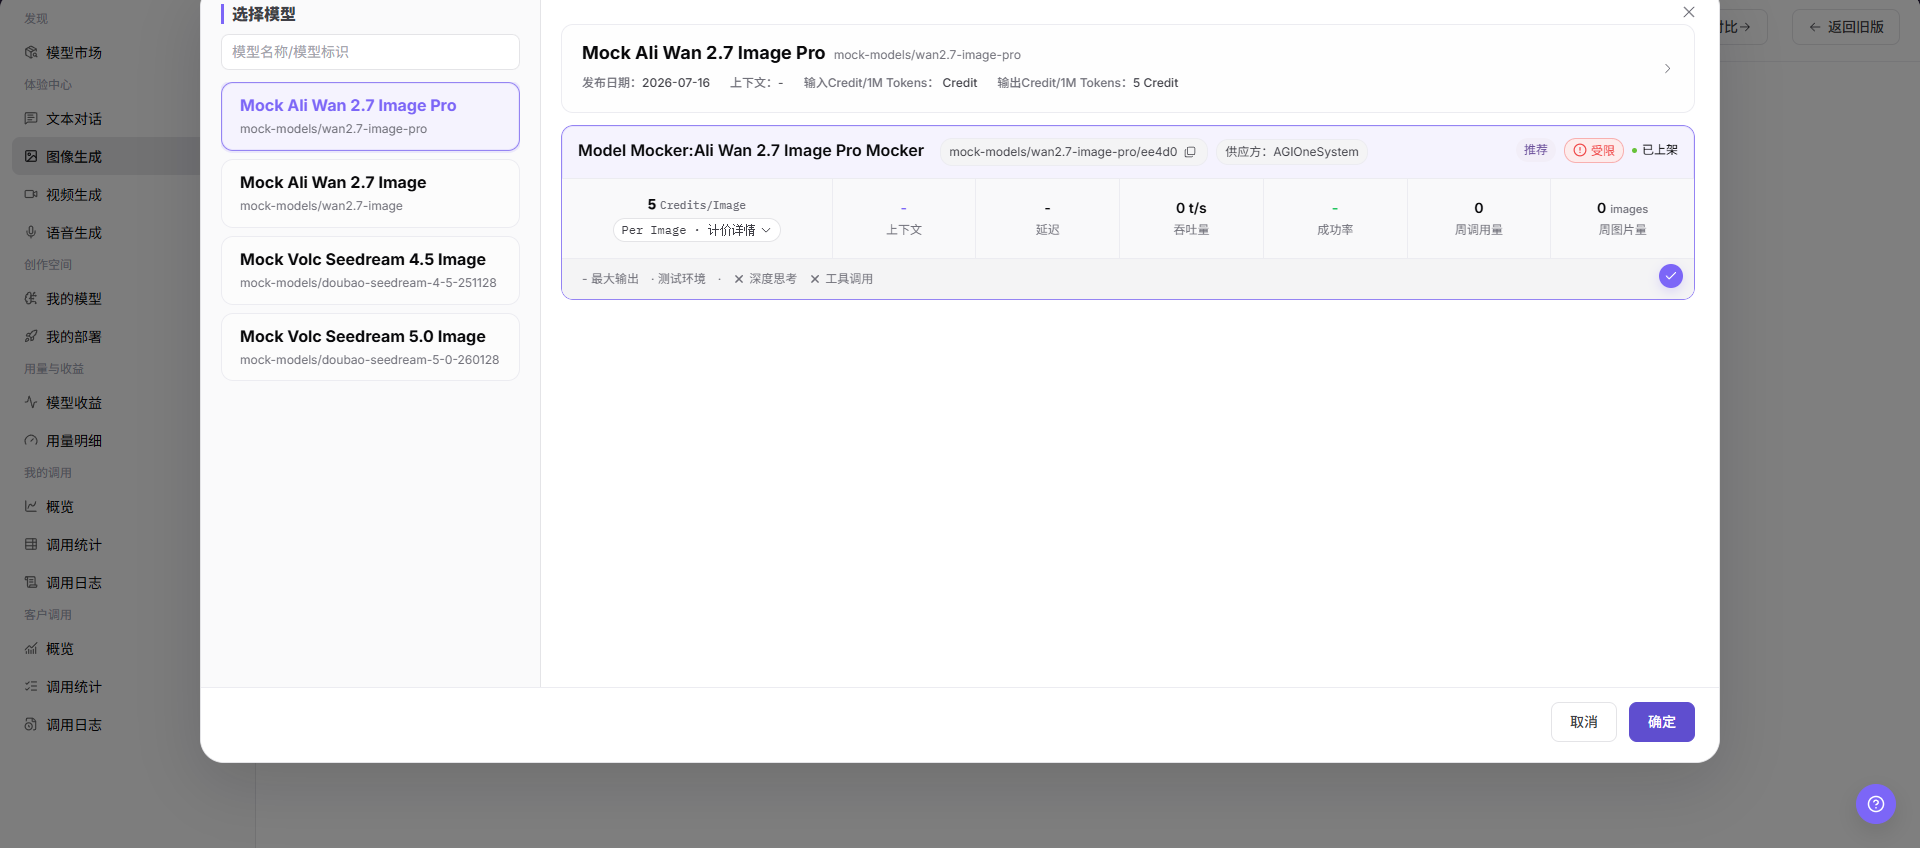
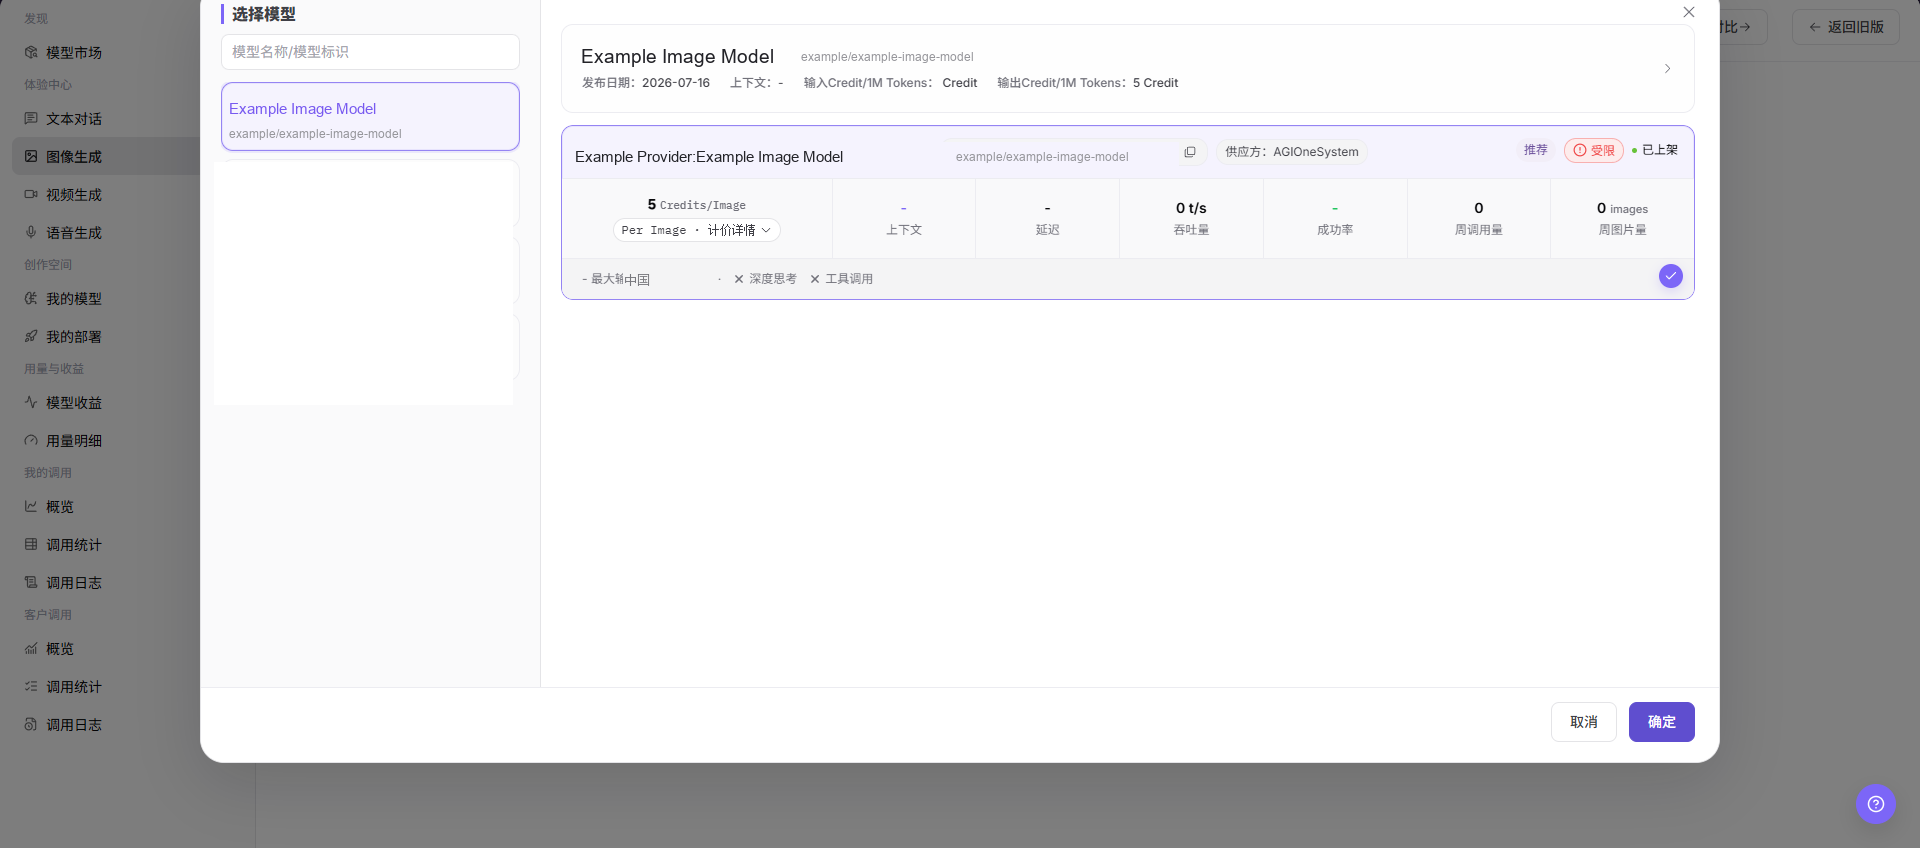
docs(model-services): 脱敏 6 项 P0 截图与示例值
- P0-1 发布模型截图: 真实 EAS Endpoint 覆写为占位 URL
- P0-2 Playground 模型选择截图(文本/语音/图像/视频): 通用化 Mock 厂商名、抹除真实搜索词、"测试环境"改地区
- P0-3 收益明细截图: <USER_NAME> 占位符改为规范 placeholder 文案
- P0-4 客户调用清单截图: <CUSTOMER_NAME> 占位符改为规范 placeholder 文案
- P0-5 Voice ID 示例值 male-qn-qingse 改为 example-voice-01
- P0-6 模型示例值 Mock Ali Wan 2.7 改为 Example Image/Video Model

中英同步; check:docs-images / check:docs-profile / docs:build 均通过

diff --git a/docs/usermanual/model-services/user/playground/audio/index.md b/docs/usermanual/model-services/user/playground/audio/index.md
@@ -89,7 +89,7 @@ The image shows the input and parameter area. Verify the model, input, Personal 
 | Field Name | Required | Field Type | Example | Description |
 | --- | --- | --- | --- | --- |
 | Model | Yes | Dropdown | `Example Audio Model` | The audio model currently being tried. |
-| Voice ID | Yes | Input or selector | `male-qn-qingse` | Specifies the voice or speaker for generated speech. |
+| Voice ID | Yes | Input or selector | `example-voice-01` | Specifies the voice or speaker for generated speech. |
 | Text | Yes | Text input | `please input` | Text content to convert into speech. |
 | Protocol | Yes | Dropdown | `openai/audio` | Current audio model call protocol. |
 | Speed | No | Slider / number input | `1.0` | Controls the speed of generated speech. |

diff --git a/docs/usermanual/model-services/user/playground/video/index.md b/docs/usermanual/model-services/user/playground/video/index.md
@@ -88,7 +88,7 @@ The image shows the input and parameter area. Verify the model, input, Personal 
 
 | Field Name | Required | Field Type | Example | Description |
 | --- | --- | --- | --- | --- |
-| Model | Yes | Dropdown | `Mock Ali Wan 2.7 Video Edit` | Video model currently being tried. |
+| Model | Yes | Dropdown | `Example Video Model` | Video model currently being tried. |
 | Provider | Yes | Dropdown | `Example Provider` | Provider instance of the current model. |
 | Prompt | Yes | Multiline text | `Generate a product showcase video` | Describes the video content, action, and style to generate. |
 | Reference Image | Conditionally required | Image upload | `reference.png` | Used for image-to-video, reference-to-video, or video editing scenarios. |

diff --git a/docs/usermanual/model-services/user/playground/images/index.md b/docs/usermanual/model-services/user/playground/images/index.md
@@ -87,7 +87,7 @@ The image shows the input and parameter area. Verify the model, input, Personal 
 
 | Field Name | Required | Field Type | Example | Description |
 | --- | --- | --- | --- | --- |
-| Model | Yes | Dropdown | `Mock Ali Wan 2.7 Image Pro` | Image model currently being tried. |
+| Model | Yes | Dropdown | `Example Image Model` | Image model currently being tried. |
 | Provider | Yes | Dropdown | `Example Provider` | Provider instance of the current model. |
 | Prompt | Yes | Multiline text | `Generate a product poster` | Describes the image content and style to generate. |
 | Size | No | Option | `2K` | Controls the generated image size or quality tier. |

diff --git a/docs/zh-CN/usermanual/model-services/user/playground/audio/index.md b/docs/zh-CN/usermanual/model-services/user/playground/audio/index.md
@@ -89,7 +89,7 @@
 | 字段名称 | 是否必填 | 字段类型 | 示例 | 说明 |
 | --- | --- | --- | --- | --- |
 | 模型 | 是 | 下拉选择 | `Example Audio Model` | 当前体验的音频模型。 |
-| Voice ID | 是 | 输入或选择 | `male-qn-qingse` | 指定生成语音的音色或发音人。 |
+| Voice ID | 是 | 输入或选择 | `example-voice-01` | 指定生成语音的音色或发音人。 |
 | Text | 是 | 文本输入 | `please input` | 需要转换为语音的文本内容。 |
 | Protocol | 是 | 下拉选择 | `openai/audio` | 当前音频模型调用协议。 |
 | Speed | 否 | 滑块 / 数字输入 | `1.0` | 控制生成语音的速度。 |

diff --git a/docs/zh-CN/usermanual/model-services/user/playground/video/index.md b/docs/zh-CN/usermanual/model-services/user/playground/video/index.md
@@ -88,7 +88,7 @@
 
 | 字段名称 | 是否必填 | 字段类型 | 示例 | 说明 |
 | --- | --- | --- | --- | --- |
-| 模型 | 必填 | 下拉选择 | `Mock Ali Wan 2.7 Video Edit` | 当前体验的视频模型。 |
+| 模型 | 必填 | 下拉选择 | `Example Video Model` | 当前体验的视频模型。 |
 | 供应方 | 必填 | 下拉选择 | `Example Provider` | 当前模型的供应方实例。 |
 | 提示词 | 必填 | 多行文本 | `生成一段产品展示视频` | 描述希望生成的视频内容、动作和风格。 |
 | 参考图 | 条件必填 | 图片上传 | `reference.png` | 用于图生视频、参考图生成或视频编辑场景。 |

diff --git a/docs/zh-CN/usermanual/model-services/user/playground/images/index.md b/docs/zh-CN/usermanual/model-services/user/playground/images/index.md
@@ -87,7 +87,7 @@
 
 | 字段名称 | 是否必填 | 字段类型 | 示例 | 说明 |
 | --- | --- | --- | --- | --- |
-| 模型 | 必填 | 下拉选择 | `Mock Ali Wan 2.7 Image Pro` | 当前体验的图像模型。 |
+| 模型 | 必填 | 下拉选择 | `Example Image Model` | 当前体验的图像模型。 |
 | 供应方 | 必填 | 下拉选择 | `Example Provider` | 当前模型的供应方实例。 |
 | 提示词 | 必填 | 多行文本 | `生成一张产品海报` | 描述希望生成的图像内容和风格。 |
 | Size | 否 | 选择项 | `2K` | 控制生成图片尺寸或清晰度档位。 |
